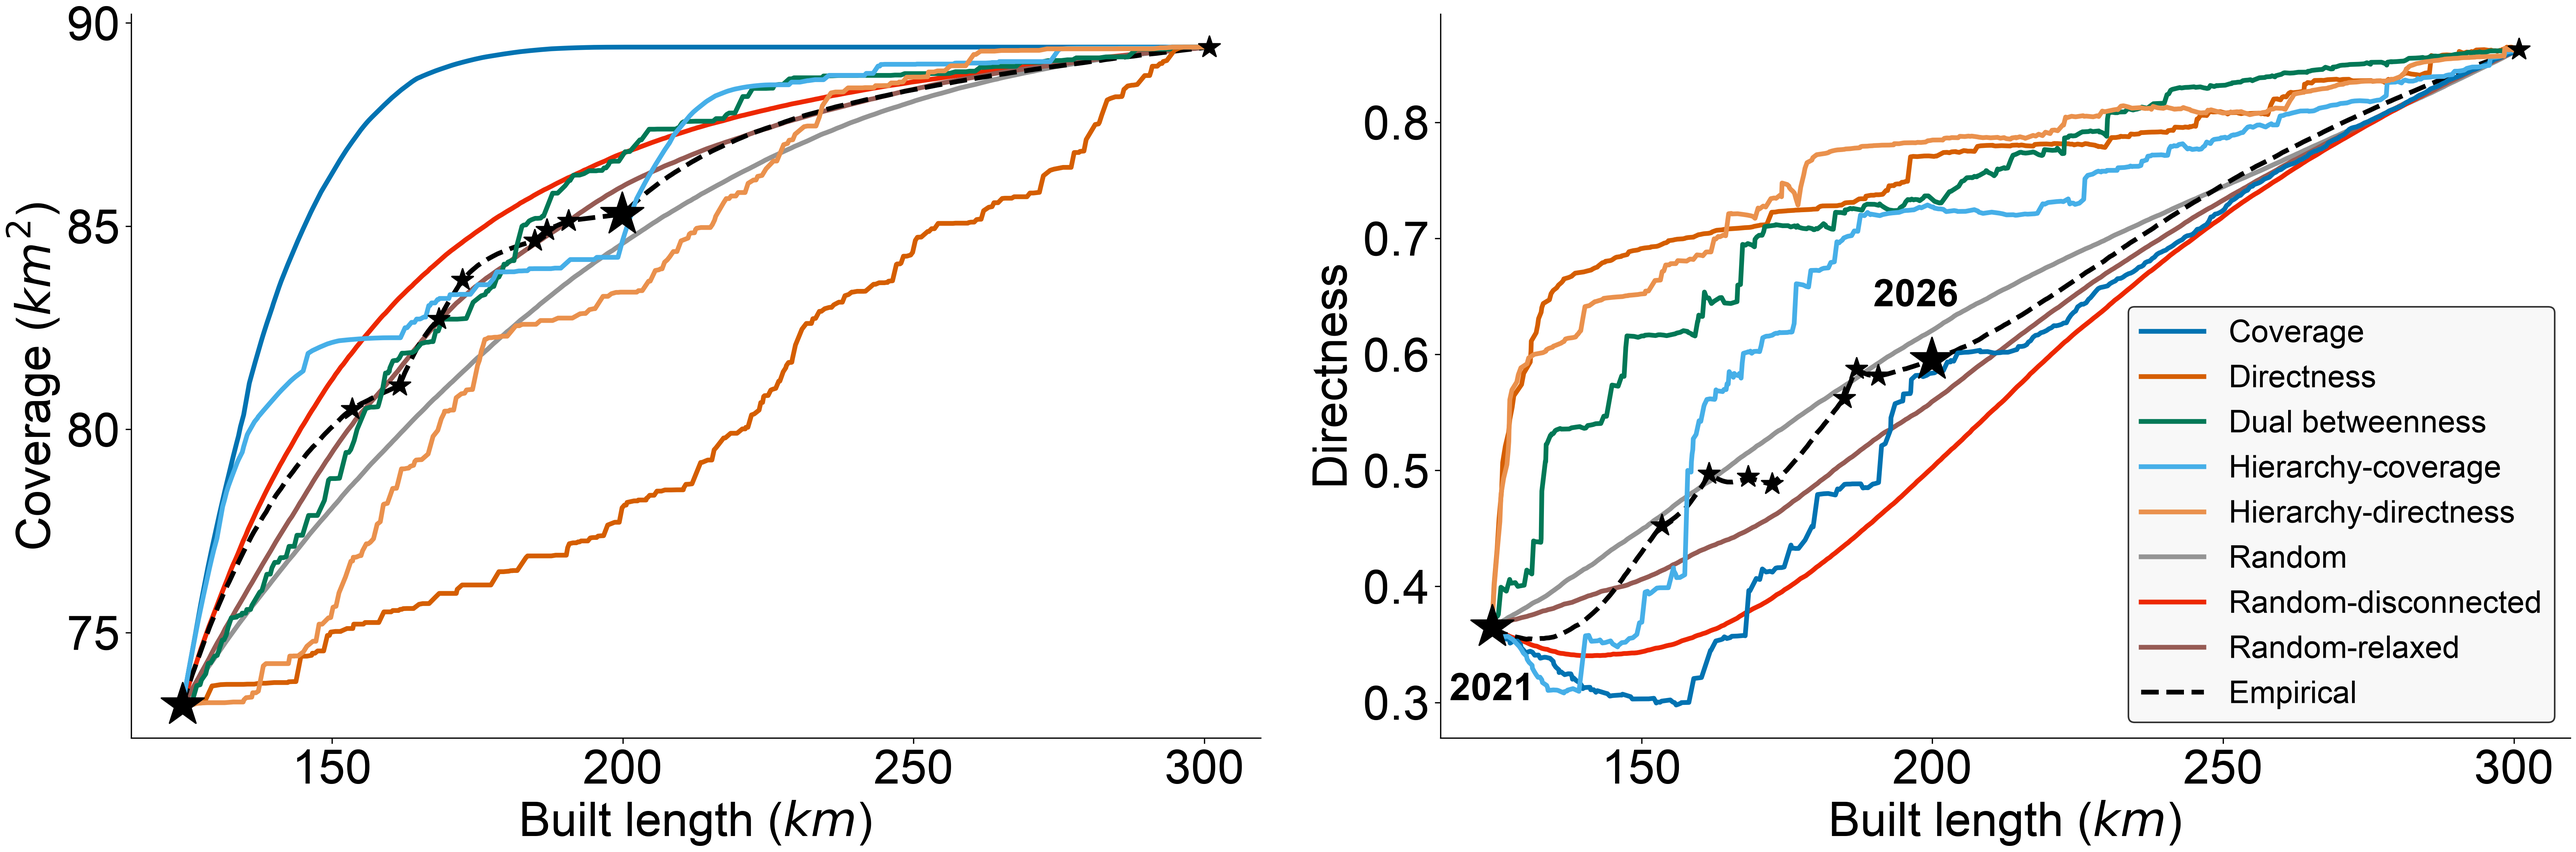
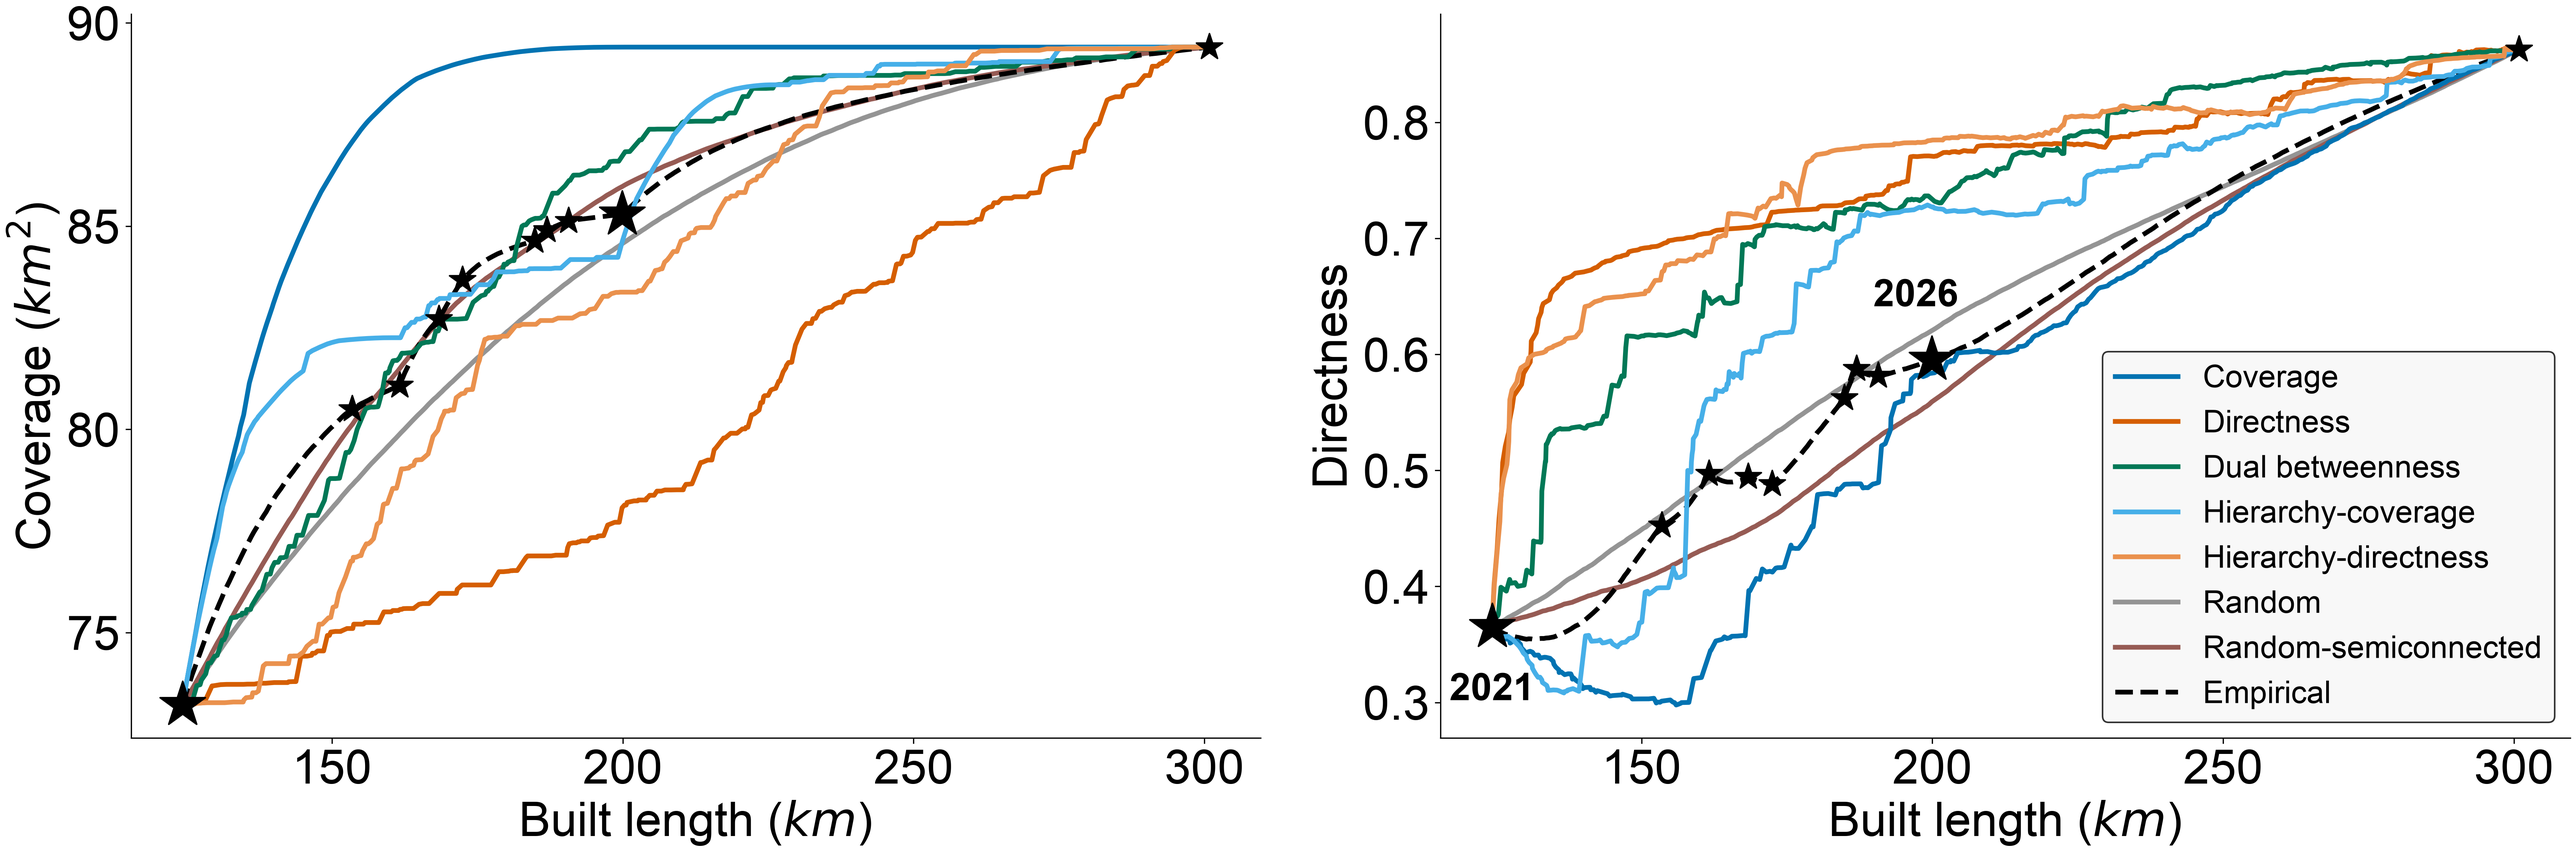
Fix article main figures

diff --git a/scripts/La_plot_AUC_2021_2026_main.py b/scripts/La_plot_AUC_2021_2026_main.py
@@ -41,7 +41,7 @@ PARAMS_DICT = {
         "Hierarchy-directness",
         "Random",
         "Random-disconnected",
-        "Random-relaxed",
+        "Random-semiconnected",
         "Empirical",
     ],
     "color": [
@@ -60,8 +60,9 @@ PARAMS_DICT = {
         "black",
     ],
     "marker": ["D", "s", "h", "P", "p", "X", "d", "d", "d", "o", "o", "o", "*"],
-    "alpha": [0.65, 1, 1, 1, 1, 1, 0.3, 1, 1, 0.3, 0.3, 0.3, 1],
-    "s": [70, 70, 70, 70, 70, 70, 40, 120, 120, 40, 40, 40, 200],
+    "zorder": [6, 6, 6, 6, 6, 6, 5, 6, 6, 2, 3, 4, 7],
+    "alpha": [0.75, 1, 1, 1, 1, 1, 0.5, 1, 1, 0.5, 0.5, 0.5, 1],
+    "s": [70, 70, 70, 70, 70, 70, 40, 120, 120, 40, 40, 40, 400],
     "figsize": [11.69, 8.27],
     "errorbar_random": {"elinewidth": 1, "color": "#D0D0D0", "markersize": 6},
     "errorbar_hierarchy": {"elinewidth": 1, "color": "#D0D0D0"},
@@ -121,7 +122,7 @@ def main():
         savename_plot += ".png"
         for idx, end_folder in enumerate(END_FOLDERS):
             ax = axs[idx]
-            ax.set_title(f"From {end_folder}", y=1.025, fontweight=700)
+            ax.set_title(f"From {end_folder}", y=1.007, fontweight=700)
             folder_data = FOLDEROOT + end_folder + "/"
             savename = folder_data + f"/auc_table_growth_bs_{BUFFER_SIZE}"
             if exp_disc:
@@ -131,17 +132,6 @@ def main():
             df_growth = df_growth.drop([2027])
             for ids, met in enumerate(PARAMS_DICT["order"]):
                 mask_met = df_growth["Metric optimized"] == met
-                if met in [
-                    "random",
-                    "random_disconnected",
-                    "random_relaxed",
-                    "road_hierarchy",
-                ]:
-                    zorder = 2
-                elif met == "real":
-                    zorder = 4
-                else:
-                    zorder = 3
                 if (met == "random_relaxed") & (end_folder == "2026"):
                     pass
                 else:
@@ -149,7 +139,6 @@ def main():
                         df_growth[mask_met]["AUC of Directness"],
                         df_growth[mask_met]["AUC of Coverage"],
                         linewidths=0,
-                        zorder=zorder,
                         **{
                             key: val[ids]
                             for key, val in PARAMS_DICT.items()
@@ -183,7 +172,7 @@ def main():
                                 key: val
                                 for key, val in PARAMS_DICT["errorbar_random"].items()
                             },
-                            zorder=3,
+                            zorder=6,
                         )
                 elif met == "road_hierarchy":
                     xx_mean = df_growth[mask_met]["AUC of Directness"].mean()
@@ -201,7 +190,7 @@ def main():
                             key: val
                             for key, val in PARAMS_DICT["errorbar_hierarchy"].items()
                         },
-                        zorder=3,
+                        zorder=6,
                     )
                 elif met == "real_random":
                     # Add Strong Pareto Improvment patch
@@ -218,6 +207,7 @@ def main():
                         color="green",
                         alpha=0.1,
                         zorder=0,
+                        label="Strong Pareto\nimprovement",
                     )
                     ax.add_patch(rect)
             ax.set_xlabel("AUC of directness")
@@ -267,9 +257,10 @@ def main():
         )
         for handle in lgnd.legend_handles:
             handle._alpha = 1
-        for handle in lgnd.legend_handles[:-2]:
+        lgnd.legend_handles[-2]._alpha = 0.2
+        for handle in lgnd.legend_handles[:-3]:
             handle._sizes = [80]
-        lgnd.legend_handles[-2]._sizes = [140]
+        lgnd.legend_handles[-3]._sizes = [140]
         fig.subplots_adjust(wspace=-0.5)
         fig.savefig(savename_plot, bbox_inches="tight", pad_inches=0)
 

diff --git a/scripts/Ka_plot_lineplot_covdir_merged_2021_main.py b/scripts/Ka_plot_lineplot_covdir_merged_2021_main.py
@@ -14,8 +14,8 @@ from I_grow_random_real_bikenet import NUM_RAND_REAL_TRIAL
 from J_compute_AUC import average_x
 from matplotlib import pyplot as plt
 
-MARKERSIZE = 200
-MARKERSIZE_IMPORTANT = 800
+MARKERSIZE = 300
+MARKERSIZE_IMPORTANT = 900
 LINEWIDTH = 3
 BUFFER_SIZE = 400
 FOLDERPLOT_MAIN = "./plots/article_main/"
@@ -31,7 +31,6 @@ PARAMS_DICT = {
         "road_hierarchy_coverage",
         "road_hierarchy_directness",
         "random",
-        "random_disconnected",
         "random_relaxed",
         "real",
         "real_random",
@@ -43,8 +42,7 @@ PARAMS_DICT = {
         "Hierarchy-coverage",
         "Hierarchy-directness",
         "Random",
-        "Random-disconnected",
-        "Random-relaxed",
+        "Random-semiconnected",
         "Empirical",
         "Empirical",
     ],
@@ -55,7 +53,6 @@ PARAMS_DICT = {
         "#46afe8",
         "#ea914d",
         "#949494",
-        "#ED2800",
         "#965B54",
         "black",
         "black",
